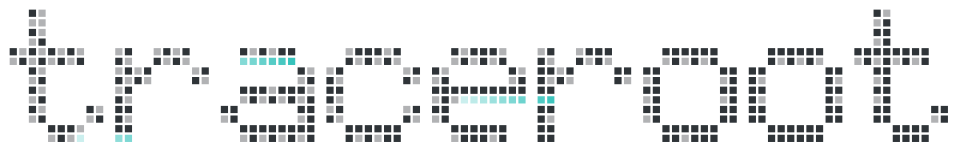
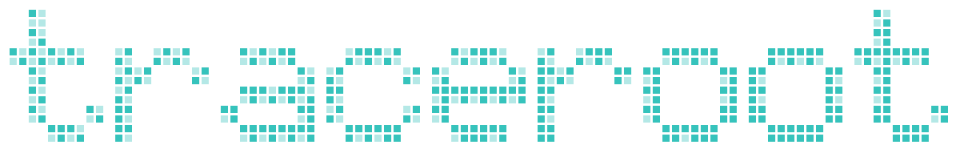
Use the green website footer wordmark in the welcome email

diff --git a/frontend/packages/core/src/lib/email-card.ts b/frontend/packages/core/src/lib/email-card.ts
@@ -22,12 +22,7 @@ export const EMAIL_LOGO_URL =
   process.env.NEXT_PUBLIC_LOGO_URL ||
   "https://raw.githubusercontent.com/traceroot-ai/traceroot/main/frontend/ui/public/images/traceroot_wordmark.png";
 
-/**
- * Hosted PNG of the website footer's pixel wordmark: a still frame of the
- * dithered "traceroot" with the turquoise sweep frozen in place, as on
- * traceroot.ai. Static on purpose: an animated GIF loads more slowly in the
- * header. Rendered from docs/brand/footer-wordmark.svg at 960x154 (2x).
- */
+/** Email-safe PNG of the green website footer wordmark, rendered at 2×. */
 export const EMAIL_PIXEL_WORDMARK_URL =
   "https://raw.githubusercontent.com/traceroot-ai/traceroot/main/frontend/ui/public/images/traceroot_pixel_wordmark.png";
 
